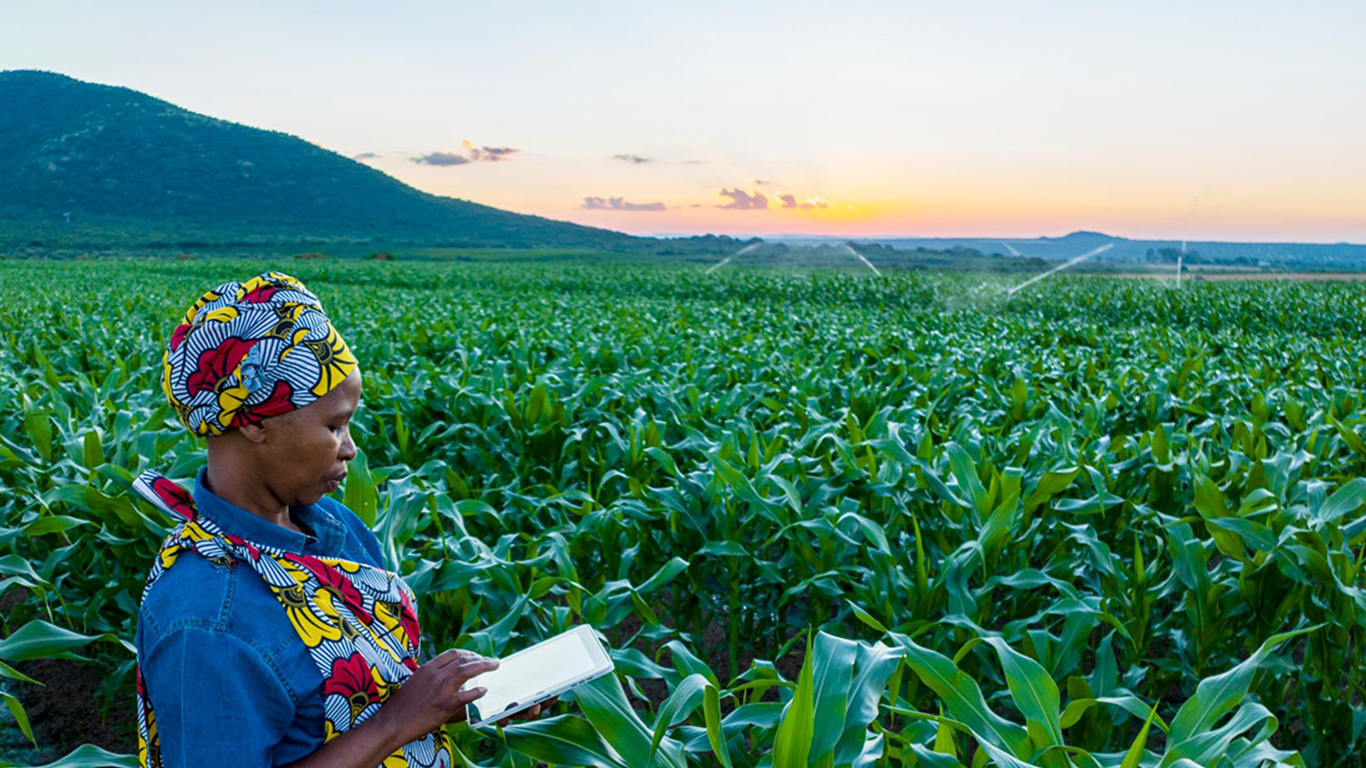
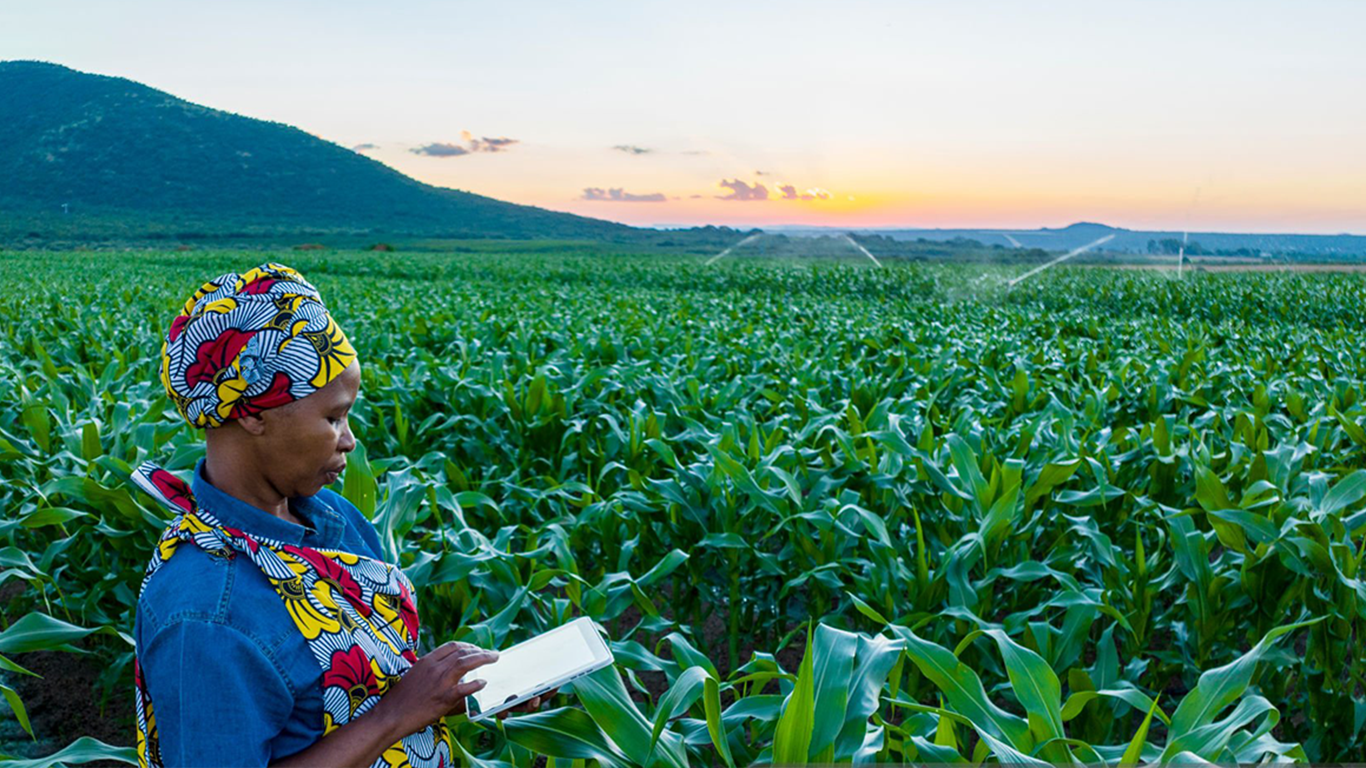
working on carousel styling, want it to be so the dots are visible when page tabs are locked to top of viewport

diff --git a/src/Components/Carousel.js b/src/Components/Carousel.js
@@ -1,8 +1,10 @@
-import React, {useRef, useEffect} from "react";
+import React, {useRef} from "react";
 import Slider from "react-slick";
 import { Fab, Box, Typography } from "@mui/material";
 import {MuiImg} from "../Theme.tsx";
-import harvestImg from "../Images/Harvest-v4.png";
+import harvestImg from "../Images/cropped_images/Harvest.png";
+import biocharImg from "../Images/cropped_images/biochar.png";
+import dacImg from "../Images/cropped_images/Dac.png";
 import ArrowForwardIcon from "@mui/icons-material/ArrowForward";
 import ArrowBackIcon from "@mui/icons-material/ArrowBack";
 
@@ -21,14 +23,14 @@ const Carousel = () => {
   };
 
   // Ensure sliderRef is attached correctly
-  useEffect(() => {
-    const logInterval = setInterval(() => {
-      console.log("SliderRef is set:", sliderRef.current);
-    }, 1000); // Log every second
+  // useEffect(() => {
+  //   const logInterval = setInterval(() => {
+  //     console.log("SliderRef is set:", sliderRef.current);
+  //   }, 1000); // Log every second
   
-    // Cleanup interval when the component is unmounted or re-rendered
-    return () => clearInterval(logInterval);
-  }, [sliderRef]);
+  //   // Cleanup interval when the component is unmounted or re-rendered
+  //   return () => clearInterval(logInterval);
+  // }, [sliderRef]);
 
 
   const goToPrevSlide = () => {
@@ -48,17 +50,61 @@ const Carousel = () => {
     <Box sx={{ position: 'relative', width: "80%", margin: "0 auto", mt: 5 }}>
       <Slider {...settings} ref={sliderRef}> 
           <Box>
-              <Typography variant="h4" align="center">Slide 1</Typography>
+              <Typography variant="h4" align="center">Biomass and Food Production</Typography>
               <MuiImg
                   src={harvestImg}
               >  
               </MuiImg>
+              <Typography 
+                sx={{
+                    variant:"body1",
+                    align:"center",
+                    padding:'30px'
+                }}>
+                CarbonGood uses elevated CO2 levels in fossil ,fuel emissions to accelerate biomass growth, 
+                coupling that with optimized lighting and extended daylight to produce a virtuous cycle. 
+                HCCAS is also a high-density format yielding much more biomass, much faster, from each 
+                square foot of land than any other agricultural solution can do, enabling it to lock-up 
+                megatons of carbon in useful product. And do so cleanly, with no pollution, no pesticide, 
+                and no herbicide.
+              </Typography>
           </Box>
           <Box>
-              <Typography variant="h4" align="center">Slide 2</Typography>
+              <Typography variant="h4" align="center">Biomass to Biochar</Typography>
+              <MuiImg
+                  src={biocharImg}
+              >  
+              </MuiImg>
+              <Typography 
+                sx={{
+                    variant:"body1",
+                    align:"center",
+                    padding:'30px'
+                }}>
+                Biocharring the biomass permanently sequesters carbon as valuable products (emissions from the 
+                charring process are also captured). Biomass height is constrained by the format but grasses, cereals 
+                and other fast-growing species work, and work well. Another option is industrial hemp which, among many 
+                other uses, is the raw material for carbon-negative hempcrete, a material that permanently locks-up CO2 
+                in buildings.
+              </Typography>
           </Box>
           <Box>
-              <Typography variant="h4" align="center">Slide 3</Typography>
+              <Typography variant="h4" align="center">Carbon Capture</Typography>
+              <MuiImg
+                  src={dacImg}
+              >  
+              </MuiImg>
+              <Typography 
+                sx={{
+                    variant:"body1",
+                    align:"center",
+                    padding:'30px'
+                }}>
+                CarbonGood uses established off-the-shelf and cost-effective technology to safely capture 
+                CO2 from any emitter or directly from the air with zero pollution. We convert captured CO2 
+                on-site to biomass and then to a high value, immediately usable product (biochar) that is 
+                in growing demand.
+              </Typography>
           </Box>
       </Slider>
 

diff --git a/src/Components/PageTabs.js b/src/Components/PageTabs.js
@@ -11,9 +11,13 @@ function TabPanel({ children, value, index, ...other }) {
       id={`simple-tabpanel-${index}`}
       aria-labelledby={`simple-tab-${index}`}
       {...other}
+      style={{
+        width: '100%',
+        height: '100%'
+      }}
     >
       {value === index && (
-        <Box sx={{ p: 3 }}>
+        <Box sx={{ p: 3, minWidth: "100%", minHeight: "100%"}}>
           <Typography>{children}</Typography>
         </Box>
       )}
@@ -32,7 +36,11 @@ const PageTabs = forwardRef((props, ref) => {
   return (
     <Box ref={ref} sx={{ width: '100%' }}>
       {/* Tab bar */}
-      <Tabs value={value} onChange={handleChange} aria-label="page tabs">
+      <Tabs 
+        value={value} 
+        onChange={handleChange} 
+        aria-label="page tabs"
+      >
         <Tab label="What is Carbon Good?" />
         <Tab label="Why Do We Need It?" />
       </Tabs>

diff --git a/src/Theme.tsx b/src/Theme.tsx
@@ -89,7 +89,7 @@ const theme = createTheme({
                     borderBottom: '4px solid #ffffff', // Border bottom stroke for active tab
                     '&.Mui-selected': {
                     color: '#3B9D95', // Active tab color
-                    borderBottom: '4px solid #3B9D95', // Border bottom stroke for active tab
+                    borderBottom: '4px solid #3B9D95', // Border bottom stroke for active tab]
                 }
                 }
             }
